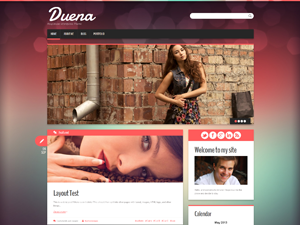
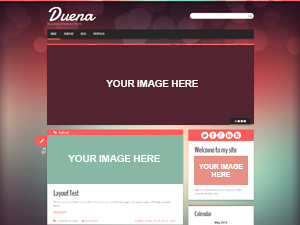
1.0.4 update 1) Screenshot updated 2) Large image in caption fixed 3) The aq_resizer were removed

diff --git a/style.css b/style.css
@@ -1,10 +1,10 @@
 /*
 Theme Name: Duena
-Theme URI: http://www.livedemo.themesbuddy.com/
+Theme URI: 
 Author: Duena Studio
 Author URI: http://profiles.wordpress.org/duena_studio
 Description: Duena is a Bootstrap template designed specifically for personal blogs. Being Bootstrap-powered the template provides lots of opportunities for editing and tuning. Bootstrap is web developer's 'mana' with all those HTML elements, components and other cool stuff. Even though Bootstrap templates are mostly flat, the gradient on the background creates depth effect that makes content blocks float in the air. Red and its hues prevail in the theme design giving it some warmth and passion. There is no need to describe theme's responsiveness; for sure the template fits perfectly into all browsers of tablets, phones and PCs. And lastly, the template comes stuffed with lots of amazing features that will make your blog stand out. Feel free to try Duena template! 
-Version: 1.0.1
+Version: 1.0.4
 License: GNU General Public License v2 or later
 License URI: http://www.gnu.org/licenses/gpl-2.0.html
 Tags: black, purple, red, one-column, two-columns, right-sidebar, flexible-width, custom-background, custom-menu, editor-style, featured-images, full-width-template, post-formats, theme-options, sticky-post, translation-ready, photoblogging
@@ -1739,6 +1739,9 @@ line-height:28px;
   margin-bottom: 10px;
   max-width: 100%;
 }
+.wp-caption.alignnone {
+  overflow: hidden;
+}
 .wp-caption img[class*="wp-image-"] {
   display: block;
   margin: 1.2% auto 0;
@@ -1750,6 +1753,9 @@ line-height:28px;
   margin: 0 5px;
   padding: 10px;
   border: 1px solid #EBEAE7;
+}
+.wp-caption.alignnone .wp-caption-text {
+  margin: 0;
 }
 /* Landscape phones and down */
 @media (max-width: 480px) {

diff --git a/js/custom.js b/js/custom.js
@@ -34,6 +34,17 @@ jQuery(function() {
 		    }
 		}
 	});
+	jQuery(".format_image_wrap a").magnificPopup({
+		type: 'image',
+		removalDelay: 500, //delay removal by X to allow out-animation
+		callbacks: {
+		    beforeOpen: function() {
+		      // just a hack that adds mfp-anim class to markup 
+		       this.st.image.markup = this.st.image.markup.replace('mfp-figure', 'mfp-figure mfp-with-anim');
+		       this.st.mainClass = this.st.el.attr('data-effect');
+		    }
+		}
+	});
 	jQuery(".gallery_slider .lightbox_img").magnificPopup({
 		type: 'image',
 		removalDelay: 500, //delay removal by X to allow out-animation

diff --git a/functions.php b/functions.php
@@ -29,17 +29,12 @@ if ( !function_exists('duena_string_limit_words') ) {
 /*
  * Load Files.
  */
-//Loading aq_resizer.php for image resize
-require_once ( get_template_directory() . '/inc/aq_resizer.php' );
 
-//Loading aq_resizer.php for image resize
+//Loading editor.php
 require_once ( get_template_directory() . '/inc/editor.php' );
 
 //Loading options.php for theme customizer
 include_once( get_template_directory() . '/options.php');
-
-// Include editor
-// include_once( get_template_directory() . '/editor/tinymce_buttons.php');
 
 //Loads the Options Panel
 if ( !function_exists( 'optionsframework_init' ) ) {
@@ -129,6 +124,18 @@ function duena_setup() {
 	// This theme uses its own gallery styles.
 	add_filter( 'use_default_gallery_style', '__return_false' );
 
+	/**
+	 * Add image sizes
+	 */
+
+	if ( function_exists( 'add_theme_support' ) ) { // Added in 2.9
+		add_theme_support( 'post-thumbnails' );
+		set_post_thumbnail_size( 770, 295, true ); // Normal post thumbnails
+		add_image_size( 'slider-post-thumbnail', 1170, 450, true ); // Slider Thumbnail
+		add_image_size( 'image_post_format', 770, 450, true ); // Image Post Format output
+		add_image_size( 'related-thumb', 160, 160, true ); // Realted Post Image output
+	}
+
 }
 endif; // duena_setup
 add_action( 'after_setup_theme', 'duena_setup' );
@@ -150,18 +157,6 @@ function duena_widgets_init() {
 }
 add_action( 'widgets_init', 'duena_widgets_init' );
 
-
-
-/**
- * Add image sizes
- */
-
-if ( function_exists( 'add_theme_support' ) ) { // Added in 2.9
-		add_theme_support( 'post-thumbnails' );
-		set_post_thumbnail_size( 770, 295, true ); // Normal post thumbnails
-		add_image_size( 'slider-post-thumbnail', 1170, 450, true ); // Slider Thumbnail
-		add_image_size( 'image_post_format', 770, 450, true ); // Image Post Format output
-	}
 
 
 /**

diff --git a/inc/extras.php b/inc/extras.php
@@ -94,14 +94,16 @@ function duena_gallery_sl() {
         	$gal_counter = 0;
         	foreach ( $attachments as $attachment ) {
         		$cur_url = wp_get_attachment_url( $attachment->ID, false );
+
         	?>
         		<li>
 	        	<?php
-	        		$gal_image = aq_resize( $cur_url, 770, 295, true );
+
+	        		$gal_image = wp_get_attachment_image_src( $attachment->ID,'thumbnail');
 	        		if ("" == $gal_image) $gal_image = $cur_url;
 	        	?>
 		        	<a href="<?php echo esc_url( $cur_url ); ?>" class="lightbox_img" data-effect="mfp-zoom-in">
-		        		<img src="<?php echo esc_url( $gal_image ); ?>" alt="">
+		        		<img src="<?php echo esc_url( $gal_image[0] ); ?>" alt="">
 		        	</a>
 	        	</li>
 	        	<?php
@@ -181,20 +183,14 @@ function duena_portfolio_show() {
 				?>
 				<div class="span4 portf_item">
 					<div class="hentry">
-						<?php
-							$post_id = get_the_ID();
-							$post_thumbnail_id = get_post_thumbnail_id( $post_id );
-							$cur_url = wp_get_attachment_url( $post_thumbnail_id, false );
-							$image = aq_resize( $cur_url, 370, 150, true );
-						?>
 						<figure class="featured-thumbnail thumbnail">
-							<a href="<?php echo get_permalink( $post_id ); ?>">
+							<a href="<?php echo get_permalink(); ?>">
 								<?php the_post_thumbnail(); ?>
 							</a>
 						</figure>
 						<div class="post_content">
 							<h5>
-								<a href="<?php echo get_permalink( $post_id ); ?>">
+								<a href="<?php echo get_permalink(); ?>">
 									<?php the_title(); ?>
 								</a>
 							</h5>

diff --git a/post-formats/related-posts.php b/post-formats/related-posts.php
@@ -34,11 +34,10 @@ if ($tags) {
 						<?php if(has_post_thumbnail()) { ?>
 							<?php
 								$thumb = get_post_thumbnail_id();
-								$img_url = wp_get_attachment_url( $thumb,'full'); //get img URL
-								$image = aq_resize( $img_url, 160, 160, true ); //resize & crop img
+								$img_url = wp_get_attachment_image_src( $thumb,'related-thumb'); //get img URL
 							?>
 							<figure class="thumbnail featured-thumbnail">
-								<a href="<?php the_permalink(); ?>" title="<?php the_title(); ?>"><img src="<?php echo esc_url( $image ); ?>" alt="<?php the_title(); ?>" /></a>
+								<a href="<?php the_permalink(); ?>" title="<?php the_title(); ?>"><img src="<?php echo esc_url( $img_url[0] ); ?>" alt="<?php the_title(); ?>" /></a>
 							</figure>
 						<?php } else { ?>
 							<figure class="thumbnail featured-thumbnail">

diff --git a/slider.php b/slider.php
@@ -27,7 +27,6 @@
             $sl_image_url = wp_get_attachment_image_src( get_post_thumbnail_id($post->ID), 'slider-post-thumbnail');
     ?>
     <?php if(has_post_thumbnail( $post->ID )){
-        $image = aq_resize($sl_image_url[0], 1170, 450, true);
     ?>
         <li>
             <?php if ( 'false' != of_get_option('sl_as_link') ) { ?>
